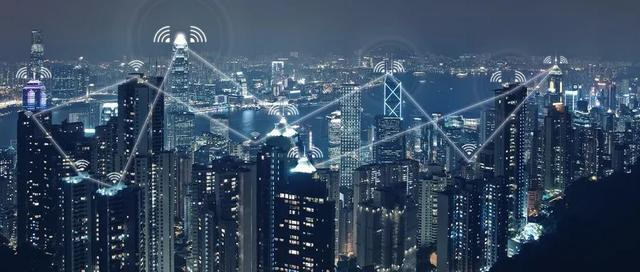
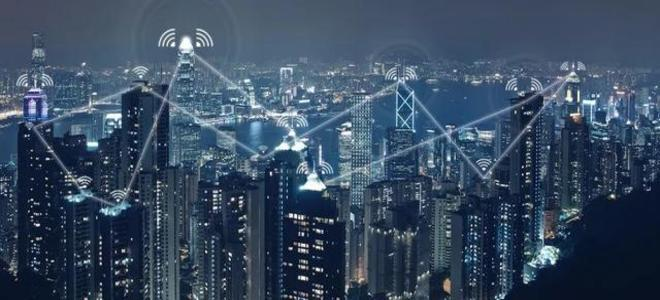
add solution face pic

diff --git a/src/pages/cases/Cases.js b/src/pages/cases/Cases.js
@@ -152,7 +152,7 @@ const cases = {
     },
     cloud: {
         title: '通信企业',
-        img:"url('https://raw.githubusercontent.com/LabZion/Official_WebSite/master/public/picture/tongxin2.jpg')",
+        img:"url('https://raw.githubusercontent.com/LabZion/Official_WebSite/master/public/picture/tongxin4.jpeg')",
         description: '随着信息通信技术与社会各行业的深度融合，能源、交通、水利、金融、公共服务、政务等各行业、各领域的信息化程度不断提高，对关键信息基础设施的依赖也日益加深。一旦关键信息基础设施遭到破坏，无疑会对社会运行产生巨大影响。另一方面，随着我国云计算应用的日益普及，用户不再仅仅考虑“如何上云”，而更关注“如何安全上云”，受近些年来云安全时间频发的影响，用户对云上的安全需求越发迫切。',
         data: [
             {
